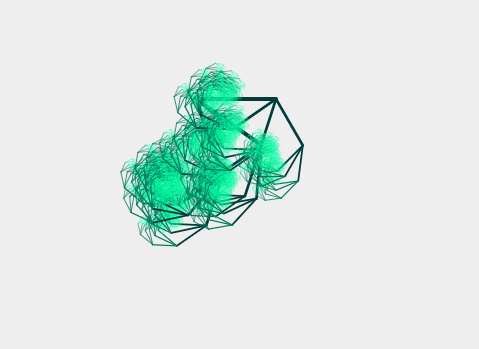
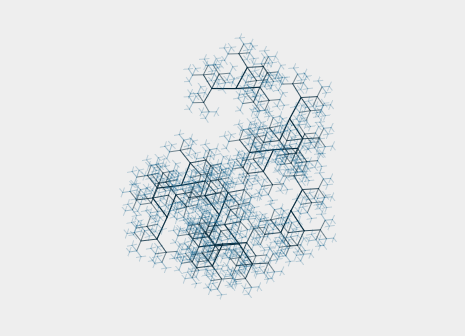
Much less clumping

Changed region(s): [[0.2409, 0.0893, 0.7226, 0.8929]]

diff --git a/js/art/latest.js b/js/art/latest.js
@@ -17,26 +17,29 @@ as long as you display this license and attribution.
 
 var color_seq = [];
 
-
-
-balls = [];
-
 function start_fractal(color_seq) {
   line_bit = new_line_segment(color_seq);
   line_bit.y = 250;
-  line_bit.length = 80;
+  line_bit.length = 90;
   line_bit.x = 300;
-  line_bit.degrees = 0; 
-  roty = random(15, 170);
+  line_bit.degrees = 90; 
+  // diffx = random(15, 50);
+  // diffy = random(15, 50)
+  // line_bit.x += diffx;
+  // line_bit.y += diffy;
   do_fractal(line_bit);
-  line_bit.degrees += roty; 
+  /*
+  line_bit.x += diffx;
+  line_bit.y += diffy;
   do_fractal(line_bit);
-  line_bit.degrees += roty; 
-  do_fractal(line_bit);
+  */
+  // do_fractal(line_bit);
 }
 
-var first_angle = 60;
-var second_angle = random_plus_minus(30, 140);
+var first_angle = random_plus_minus(30, 60);
+console.log("1:" + first_angle);
+var second_angle = first_angle + get_random_between(45, 90);
+console.log("2:" + second_angle);
 
 async function do_fractal(bit) {
   if(bit.history == 3) {
@@ -51,12 +54,12 @@ async function do_fractal(bit) {
    stroke(bit.color.levels[0],
           bit.color.levels[1],
           bit.color.levels[2]);
-  /*
-  if(bit.history > 10) {
-    bit.color = bit.color_seq.pop();
-  }*/
-  // console.log(bit.color.green);
-  const next_bit = structuredClone(draw_line_segment(bit));
+
+  hide=0;
+  if(bit.history<3) {
+    hide=1;
+  }
+  const next_bit = structuredClone(draw_line_segment(bit, hide));
 
   next_bit.length = next_bit.length*.67;
   next_bit.weight = next_bit.weight*.67;
@@ -70,11 +73,13 @@ async function do_fractal(bit) {
           const bit2 = structuredClone(next_bit);
           bit2.degrees = add_degrees(bit.degrees, second_angle);
           do_fractal(bit2);
-          if(second_angle < 90) {
+          /*
+          if(second_angle < 60) {
             const bit3 = structuredClone(next_bit);
             bit3.degrees = add_degrees(bit.degrees, second_angle*2);
             do_fractal(bit3);
           }
+          */
         }
     );
 
@@ -87,8 +92,9 @@ function setup() {
 
   color_seq = [
     color(0,60,60),
-    color(0,120,90),
-    color(0,get_random_between(200, 255),160),
+    color(7,44,63),
+    color(24,101,142),
+    color(11,156,234),
   ];
 
   second_angle = random_plus_minus(30, 140);

diff --git a/js/art/share/draw_kit.js b/js/art/share/draw_kit.js
@@ -23,15 +23,17 @@ var line_segment = {
   color_seq: [],
 };
 
-function draw_line_segment(line_seg) {
+function draw_line_segment(line_seg, hide=0) {
   seg = structuredClone(line_seg);
   seg.history+=1;
   // stroke(seg.color.red, seg.color.green, seg.color.blue);
   strokeWeight(seg.weight);
   angleRad = toRadians(seg.degrees);
   endx = seg.x + seg.length*Math.cos(angleRad);
-  endy = seg.y + seg.length*Math.sin(angleRad),
-  line(seg.x, seg.y, endx, endy);
+  endy = seg.y + seg.length*Math.sin(angleRad);
+  if(hide==0) {
+    line(seg.x, seg.y, endx, endy);
+  }
   next_seg = structuredClone(seg);
   next_seg.x = endx;
   next_seg.y = endy;
